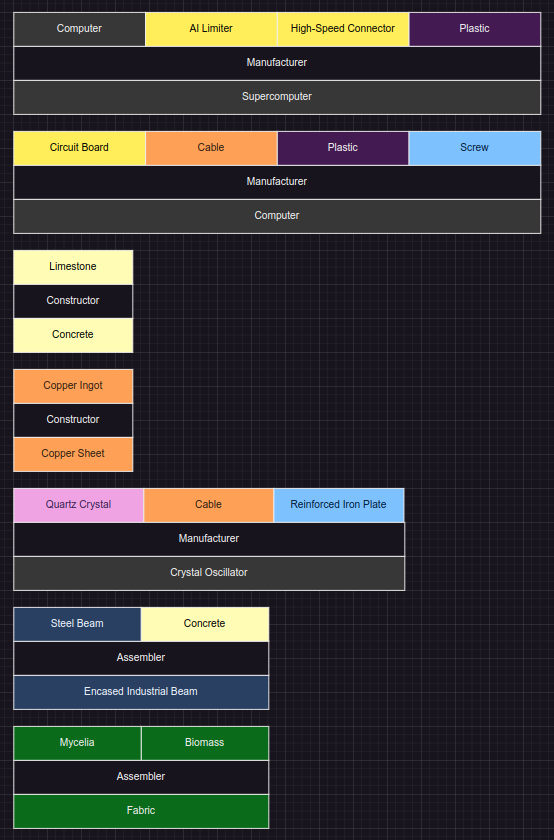
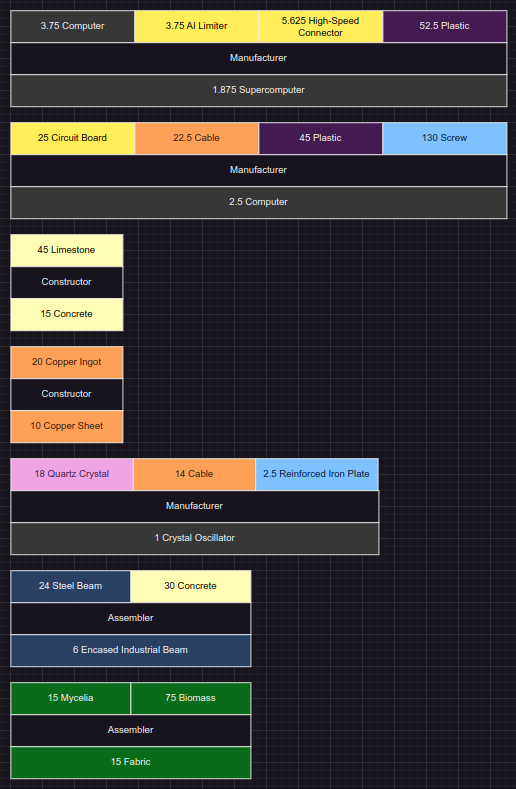
Added items rate near the names and minor code improvement

diff --git a/src/DrawioElements/MxGeometryTag.cpp b/src/DrawioElements/MxGeometryTag.cpp
@@ -1,5 +1,7 @@
 #include "MxGeometryTag.h"
 
+#include "Algorithms.h"
+
 MxGeometryTag::MxGeometryTag()
     : MxGeometryTag(0, 0, 0, 0)
 { }
@@ -14,10 +16,10 @@ MxGeometryTag::MxGeometryTag(const double x,
     , m_width(width)
     , m_height(height)
 {
-    setAttribute("x", std::to_string(x));
-    setAttribute("y", std::to_string(y));
-    setAttribute("width", std::to_string(width));
-    setAttribute("height", std::to_string(height));
+    setAttribute("x", doubleToString(x));
+    setAttribute("y", doubleToString(y));
+    setAttribute("width", doubleToString(width));
+    setAttribute("height", doubleToString(height));
 
     setAttribute("as", "geometry");
 }
@@ -46,22 +48,22 @@ double MxGeometryTag::getHeight() const
     return m_height;
 }
 
-void MxGeometryTag::setX(double x)
+void MxGeometryTag::setX(const double x)
 {
     m_x = x;
 }
 
-void MxGeometryTag::setY(double y)
+void MxGeometryTag::setY(const double y)
 {
     m_y = y;
 }
 
-void MxGeometryTag::setWidth(double width)
+void MxGeometryTag::setWidth(const double width)
 {
     m_width = width;
 }
 
-void MxGeometryTag::setHeight(double height)
+void MxGeometryTag::setHeight(const double height)
 {
     m_height = height;
 }

diff --git a/src/RecipeElements/XmlRecipe.cpp b/src/RecipeElements/XmlRecipe.cpp
@@ -3,6 +3,8 @@
 #include "GroupItem.h"
 #include "Logging.h"
 
+#include "Algorithms.h"
+
 XmlRecipe::XmlRecipe(const std::string_view parentId,
                      const size_t recipeIndex,
                      const Items& ingredients,
@@ -142,6 +144,8 @@ void XmlRecipe::generateItemElements(const Items& source,
                 break;
             }
         }
+
+        name = doubleToString(source[i].count) + " " + name;
 
         const auto itemElementPtr
             = new RecipeItem(m_groupElement->getId(), name, style, geometry);

diff --git a/src/Algorithms.cpp b/src/Algorithms.cpp
@@ -1,0 +1,21 @@
+#include "Algorithms.h"
+
+#include <regex>
+
+std::string doubleToString(const double value)
+{
+    std::string result = std::to_string(value);
+
+    const std::regex integerRegex("^([0-9]+?)(?:\\.0+)$");
+    const std::regex trailingSpacesRegex("^([0-9]+?\\.[0-9]*?[1-9])0*$");
+
+    std::smatch match;
+
+    if (std::regex_match(result, match, integerRegex)
+        || std::regex_match(result, match, trailingSpacesRegex))
+    {
+        result = match[1];
+    }
+
+    return result;
+}

diff --git a/src/File.h b/src/File.h
@@ -9,7 +9,7 @@ bool readLine(std::string_view filePath, std::string& line);
 std::string readFile(std::string_view filePath);
 
 template<class Collection>
-void writeToFile(std::string_view filePath, Collection collection)
+void writeToFile(const std::string_view filePath, Collection collection)
 {
     std::ofstream outputFile(filePath.data());
 

diff --git a/src/Logging.h b/src/Logging.h
@@ -10,7 +10,7 @@ template<class BidirectionalIteratorT, class GetterT>
 void printList(BidirectionalIteratorT begin,
                BidirectionalIteratorT end,
                GetterT getItem,
-               std::string_view separator = ", ")
+               const std::string_view separator = ", ")
 {
     auto lastItem = end;
     --lastItem;

diff --git a/src/File.cpp b/src/File.cpp
@@ -29,9 +29,10 @@ bool readLine(const std::string_view filePath, std::string& line)
     }
 }
 
-std::string readFile(std::string_view filePath)
+std::string readFile(const std::string_view filePath)
 {
-    std::string fileContent, line;
+    std::string fileContent;
+    std::string line;
 
     while (readLine(filePath, line))
     {

diff --git a/src/Main.cpp b/src/Main.cpp
@@ -13,7 +13,7 @@
 
 int main(int argc, const char* argv[])
 {
-    if (argc < 4)
+    if (argc != 4)
     {
         LOG_ERROR("Usage: SatisParsery path/to/data.json path/to/configuration.json "
                   "path/to/output.drawio");

diff --git a/src/XmlElement.cpp b/src/XmlElement.cpp
@@ -3,7 +3,7 @@
 #include <cassert>
 #include <fstream>
 
-XmlElement::XmlElement(std::string_view type)
+XmlElement::XmlElement(const std::string_view type)
     : m_type(type)
 { }
 

diff --git a/src/Algorithms.h b/src/Algorithms.h
@@ -1,0 +1,6 @@
+#pragma once
+
+#include <string>
+
+// Converts double to string and removes trailing floating zeroes if there are any.
+std::string doubleToString(double value);
